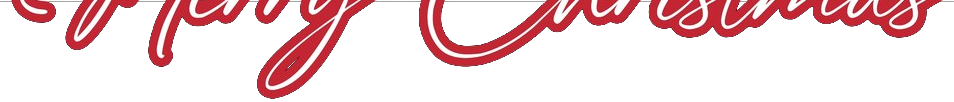
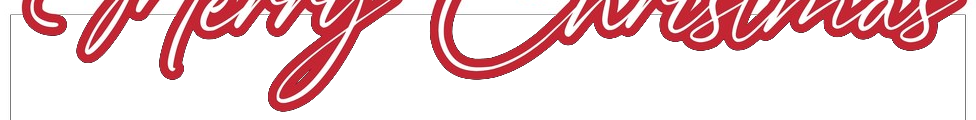
Pine Garland: no photo sliver through Merry Christmas
The photo sits a hair larger than its window; on Pine Garland that sliver
covered the lettering just above the window. The lettering overlay now starts
above the window so it covers it. Samples page lists the five two-sided
Christmas cards as printed both sides.

Claude-Session: https://claude.ai/code/session_0156pdi9V1ebMvpSVLSuGcoY

Changed region(s): [[0.0, 0.0, 1.0, 0.9706]]

diff --git a/kemp-sons-site/src/editor/templates/christmas-photo-frames.ts b/kemp-sons-site/src/editor/templates/christmas-photo-frames.ts
@@ -66,7 +66,7 @@ const CARDS: Card[] = [
     description: 'A hand-painted pine garland tied with a red bow, red script "Merry Christmas" and your family name.',
     // The window's top runs behind the script, so it starts above the lettering.
     win: [0.91, 1.385, 3.18, 4.215],
-    over: [0.91, 1.385, 3.1767, 0.34],
+    over: [0.8733, 1.34, 3.2533, 0.4],
     name_line: { x: 0.95, y: 5.64, w: 3.1, h: 0.4, color: '#bf2735', font: 'Great Vibes', size: 22 },
   },
   {
